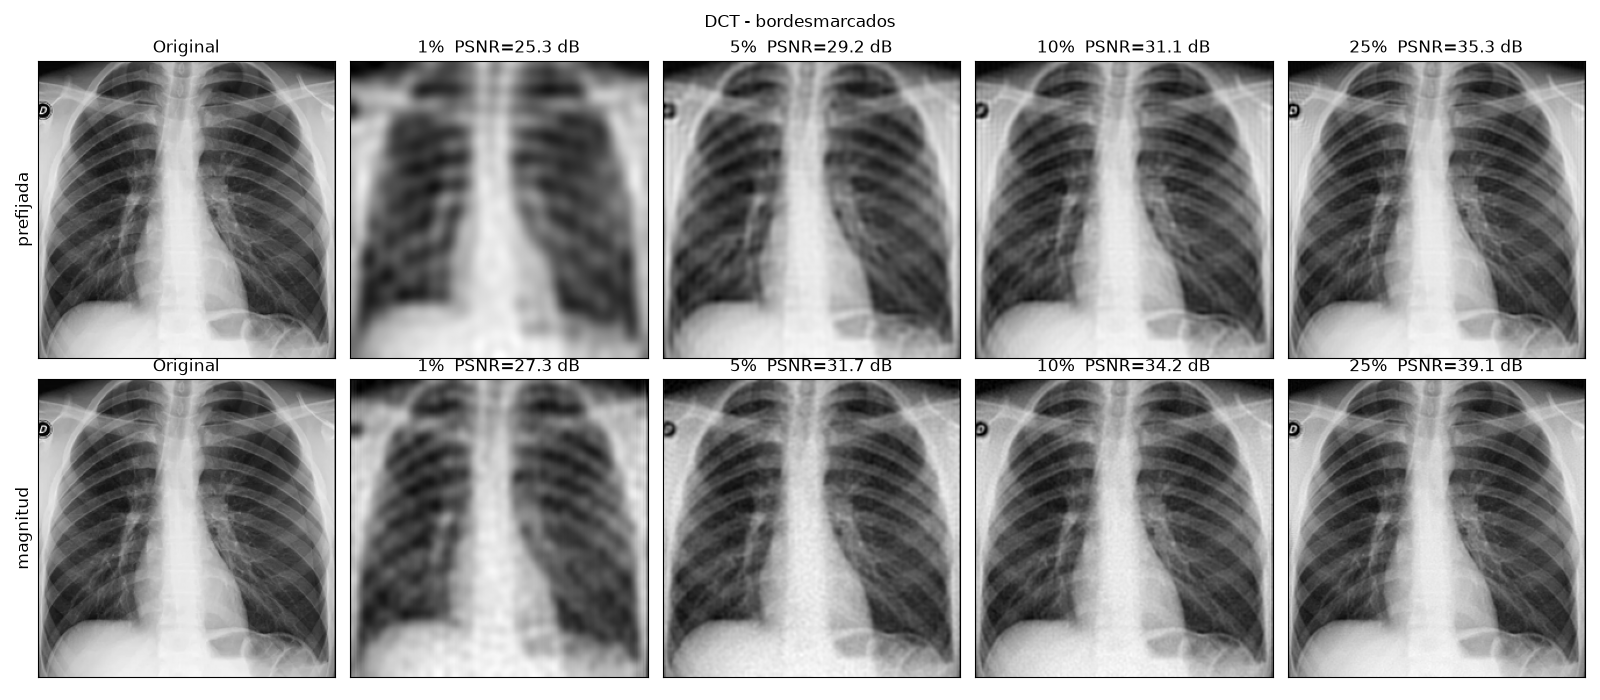
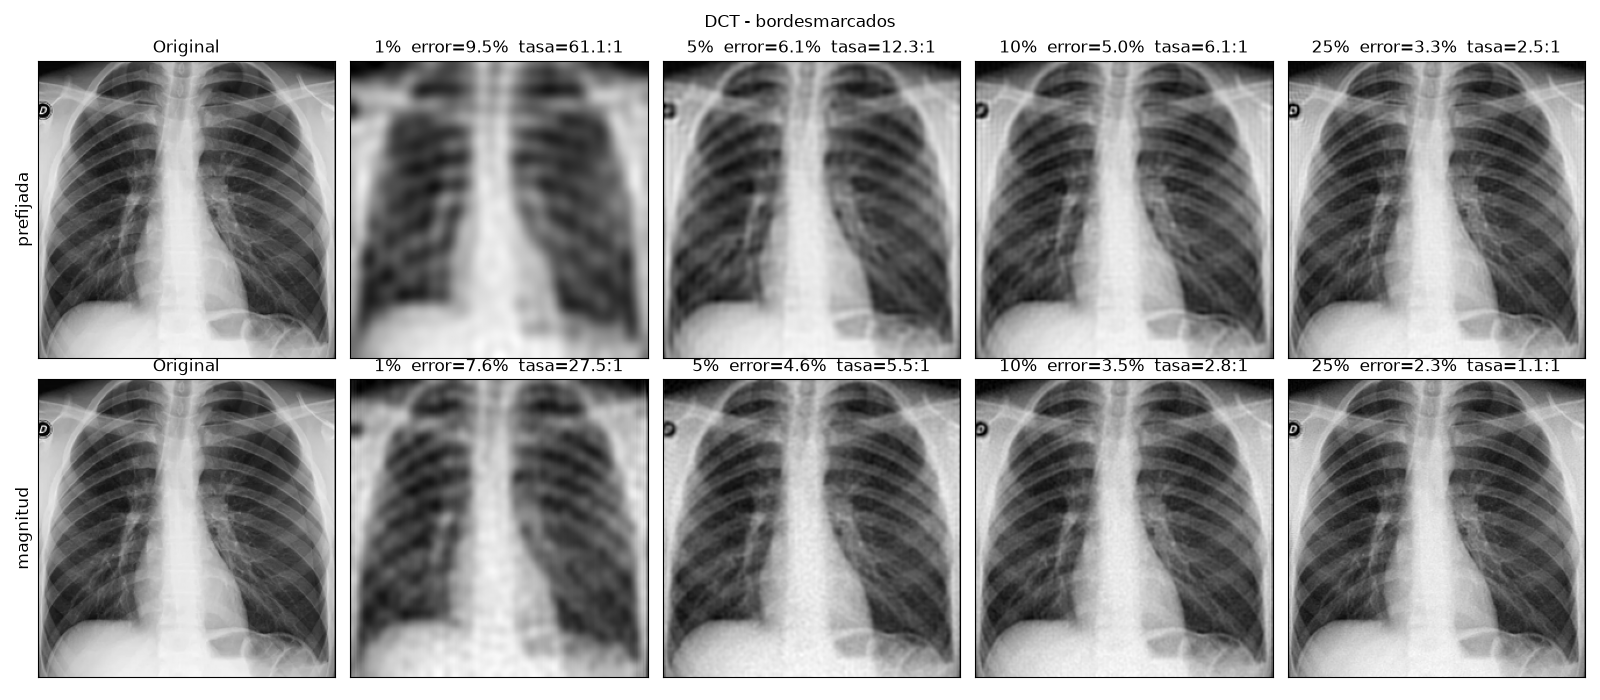
error de recuperación, tase de compresión y tamaño comprimido

diff --git a/dct.py b/dct.py
@@ -4,8 +4,8 @@ dct.py  -  Compresión de imágenes con la DCT global (base ortonormal).
 Qué hace:
   1. Conserva 1, 5, 10 y 25 % de los coeficientes y muestra las reconstrucciones.
   2. Compara dos reglas: soporte PREFIJADO (frecuencias bajas) y selección por MAGNITUD.
-  3. Calcula error relativo, MSE, PSNR y energía retenida (antes de cuantizar).
-  4. Cuantiza los coeficientes y estima los bits (valores + posiciones + cabecera).
+  3. Cuantiza los coeficientes y estima los bits (valores + posiciones + cabecera).
+  4. Reporta el error de recuperación, la tasa de compresión y el tamaño comprimido.
 
 Ejecutar:  python dct.py
 Lee las imágenes de la carpeta  imagenes/  y guarda todo en  resultados/
@@ -21,7 +21,6 @@ from scipy.fft import dctn, idctn
 TAM = 256                       # tamaño de trabajo: 256 x 256
 PORCENTAJES = [1, 5, 10, 25]    # % de coeficientes que se conservan
 DELTA = 0.05                    # paso de cuantización
-IMAGEN = ""                     # "" = usa todas las imágenes de imagenes/; o pon un nombre, ej. "radiografia.png"
 
 
 # ---------- 1. Cargar imagen: gris, cuadrada, 256x256, valores en [0, 1] ----------
@@ -69,12 +68,10 @@ def seleccion_prefijada(C, k):
     return M.reshape(C.shape)
 
 
-# ---------- 4. Métricas y bits ----------
-def metricas(A, A_rec):
-    mse = np.mean((A - A_rec) ** 2)
-    error_rel = np.linalg.norm(A - A_rec) / np.linalg.norm(A)
-    psnr = np.inf if mse == 0 else 10 * np.log10(1 / mse)
-    return error_rel, mse, psnr
+# ---------- 4. Error de recuperación y bits ----------
+def error_recuperacion(A, A_rec):
+    """||A - A_rec||_F / ||A||_F"""
+    return np.linalg.norm(A - A_rec) / np.linalg.norm(A)
 
 
 def bits_estimados(q, M, regla):
@@ -97,18 +94,14 @@ print("  dctn(X) = D X D^T  (8x8)    ->", np.allclose(transformar(X), D8 @ X @ D
 os.makedirs("resultados", exist_ok=True)
 EXTENSIONES = (".png", ".jpg", ".jpeg", ".webp", ".bmp", ".tif", ".tiff")
 rutas = sorted(r for r in glob.glob("imagenes/*") if r.lower().endswith(EXTENSIONES))
-if IMAGEN:
-    rutas = [os.path.join("imagenes", IMAGEN)]     # solo la imagen elegida
 
 for ruta in rutas:
     nombre = os.path.splitext(os.path.basename(ruta))[0]
     A = cargar_imagen(ruta)
     C = transformar(A)
     print(f"\nImagen: {nombre}")
-    print("  reconstrucción exacta     ->", np.allclose(reconstruir(C), A))
-    print("  Parseval ||A||² = ||C||²  ->", np.isclose(np.sum(A**2), np.sum(C**2)))
-    print(f"  Tamaño sin comprimir: {A.size * 8 / 8 / 1024:.1f} KB  (8 bits por píxel)")
-    print(f"  {'regla':<10}{'%':>4}{'err_rel':>10}{'PSNR':>9}{'energía':>10}{'err=desc':>10}{'PSNR_q':>9}{'bpp':>7}{'KB':>8}")
+    print(f"  Imagen reescalada: {A.shape[0]} x {A.shape[1]} píxeles = {A.size / 1024:.1f} KB sin comprimir  (8 bits por píxel)")
+    print(f"  {'regla':<10}{'% coef':>7}{'error de recuperación':>24}{'tasa de compresión':>21}{'tamaño comprimido':>20}")
 
     fig, ejes = plt.subplots(2, 5, figsize=(16, 7))
     for f, (regla, seleccionar) in enumerate([("prefijada", seleccion_prefijada), ("magnitud", seleccion_magnitud)]):
@@ -119,24 +112,20 @@ for ruta in rutas:
         for c, p in enumerate(PORCENTAJES):
             k = round(A.size * p / 100)
             M = seleccionar(C, k)
-            A_rec = reconstruir(C * M)
-
-            # Métricas antes de cuantizar
-            error_rel, mse, psnr = metricas(A, A_rec)
-            energia = np.sum(C[M] ** 2) / np.sum(C ** 2)
-            err_igual_desc = np.isclose(np.sum((A - A_rec) ** 2), np.sum(C[~M] ** 2))
 
             # Cuantización: q = round(c / Delta),  c_hat = Delta * q
             q = np.round(C / DELTA) * M
-            _, _, psnr_q = metricas(A, reconstruir(DELTA * q))
+            A_rec = reconstruir(DELTA * q)                    # imagen recuperada a partir de lo que se guarda
+
+            error_rel = error_recuperacion(A, A_rec)
             bits = bits_estimados(q, M, regla)
-            bpp = bits / A.size                               # bits por píxel (sin comprimir = 8)
+            tasa = A.size * 8 / bits                          # tasa de compresión: bits originales / bits comprimidos
             kb = bits / 8 / 1024                              # tamaño estimado comprimido en KB
 
-            print(f"  {regla:<10}{p:>4}{error_rel:>10.4f}{psnr:>9.2f}{energia:>10.5f}{str(err_igual_desc):>10}{psnr_q:>9.2f}{bpp:>7.3f}{kb:>8.1f}")
+            print(f"  {regla:<10}{p:>7}{error_rel:>24.2%}{tasa:>19.1f}:1{kb:>17.1f} KB")
 
             ejes[f, c + 1].imshow(np.clip(A_rec, 0, 1), cmap="gray", vmin=0, vmax=1)   # misma escala
-            ejes[f, c + 1].set_title(f"{p}%  PSNR={psnr:.1f} dB")
+            ejes[f, c + 1].set_title(f"{p}%  error={error_rel:.1%}  tasa={tasa:.1f}:1")
 
     for ax in ejes.ravel():
         ax.set_xticks([]); ax.set_yticks([])

diff --git a/README.md b/README.md
@@ -44,8 +44,6 @@ Los dos archivos siguen los mismos pasos, cada uno con su base: la DCT [1], [2] 
 
 [3] S. G. Mallat, "A theory for multiresolution signal decomposition: The wavelet representation," *IEEE Transactions on Pattern Analysis and Machine Intelligence*, vol. 11, no. 7, pp. 674–693, jul. 1989, doi: 10.1109/34.192463.
 
-[4] O. Velásquez Castañón, "Compresión de imágenes mediante bases ortogonales: Fourier, cosenos, Haar y Walsh–Hadamard; extensión a video," material de referencia, Álgebra Lineal Aplicada 2026-2, Universidad del Pacífico, Lima, oct. 2026.
-
 [5] SciPy, "Discrete Fourier transforms (scipy.fft)," documentación técnica. [En línea]. Disponible: https://docs.scipy.org/doc/scipy/reference/fft.html. [Accedido: 1 nov. 2026].
 
 ## Declaración de uso de IA
